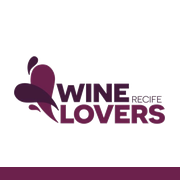
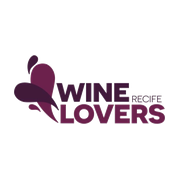
WLR: ícone da tela de início só com a marca, sem a faixa roxa

diff --git a/wlr/index.html b/wlr/index.html
@@ -19,7 +19,7 @@ if (/(^|\.)lulidias\.com$/.test(location.hostname)) location.replace('https://wi
 <link rel="icon" href="favicon.png">
 <!-- app na tela de início: sem start_url no manifest, o ícone abre o endereço de quando foi salvo (leva o token de instalação) -->
 <link rel="manifest" href="manifest.webmanifest">
-<link rel="apple-touch-icon" href="img/apple-touch-icon.png">
+<link rel="apple-touch-icon" href="img/apple-touch-icon.png?v=2">
 <meta name="apple-mobile-web-app-capable" content="yes">
 <meta name="mobile-web-app-capable" content="yes">
 <meta name="apple-mobile-web-app-title" content="WLR">
@@ -571,7 +571,7 @@ body.fechado #cta-btn,body.fechado #painel-btn,body.fechado section,body.fechado
 
 <div id="inst-modal" class="hidden" style="position:fixed;inset:0;z-index:3000;background:rgba(65,26,57,.82);display:flex;align-items:center;justify-content:center;padding:20px" onclick="if(event.target===this)this.classList.add('hidden')">
   <div style="background:#fff;max-width:400px;width:100%;padding:28px 24px;text-align:center;border-top:5px solid var(--wine-lt)">
-    <img src="img/apple-touch-icon.png" alt="" style="width:72px;height:72px;border-radius:16px;box-shadow:0 4px 14px rgba(0,0,0,.15)">
+    <img src="img/apple-touch-icon.png?v=2" alt="" style="width:72px;height:72px;border-radius:16px;box-shadow:0 4px 14px rgba(0,0,0,.15)">
     <h3 style="font-weight:800;font-size:17px;color:var(--wine);margin:14px 0 6px">Wine Lovers Recife na tela de início</h3>
     <p style="font-size:12.5px;color:var(--ink-lt);line-height:1.6;margin-bottom:14px">Faça agora, com esta página aberta. O ícone já entra sem pedir o telefone.</p>
     <div id="inst-pc" class="hidden" style="font-size:12.5px;line-height:1.6;background:var(--gold-bg);padding:8px 10px;margin-bottom:10px">Abra este site no <b>celular</b> e toque em <b>📲 Instalar no celular</b> por lá.</div>
